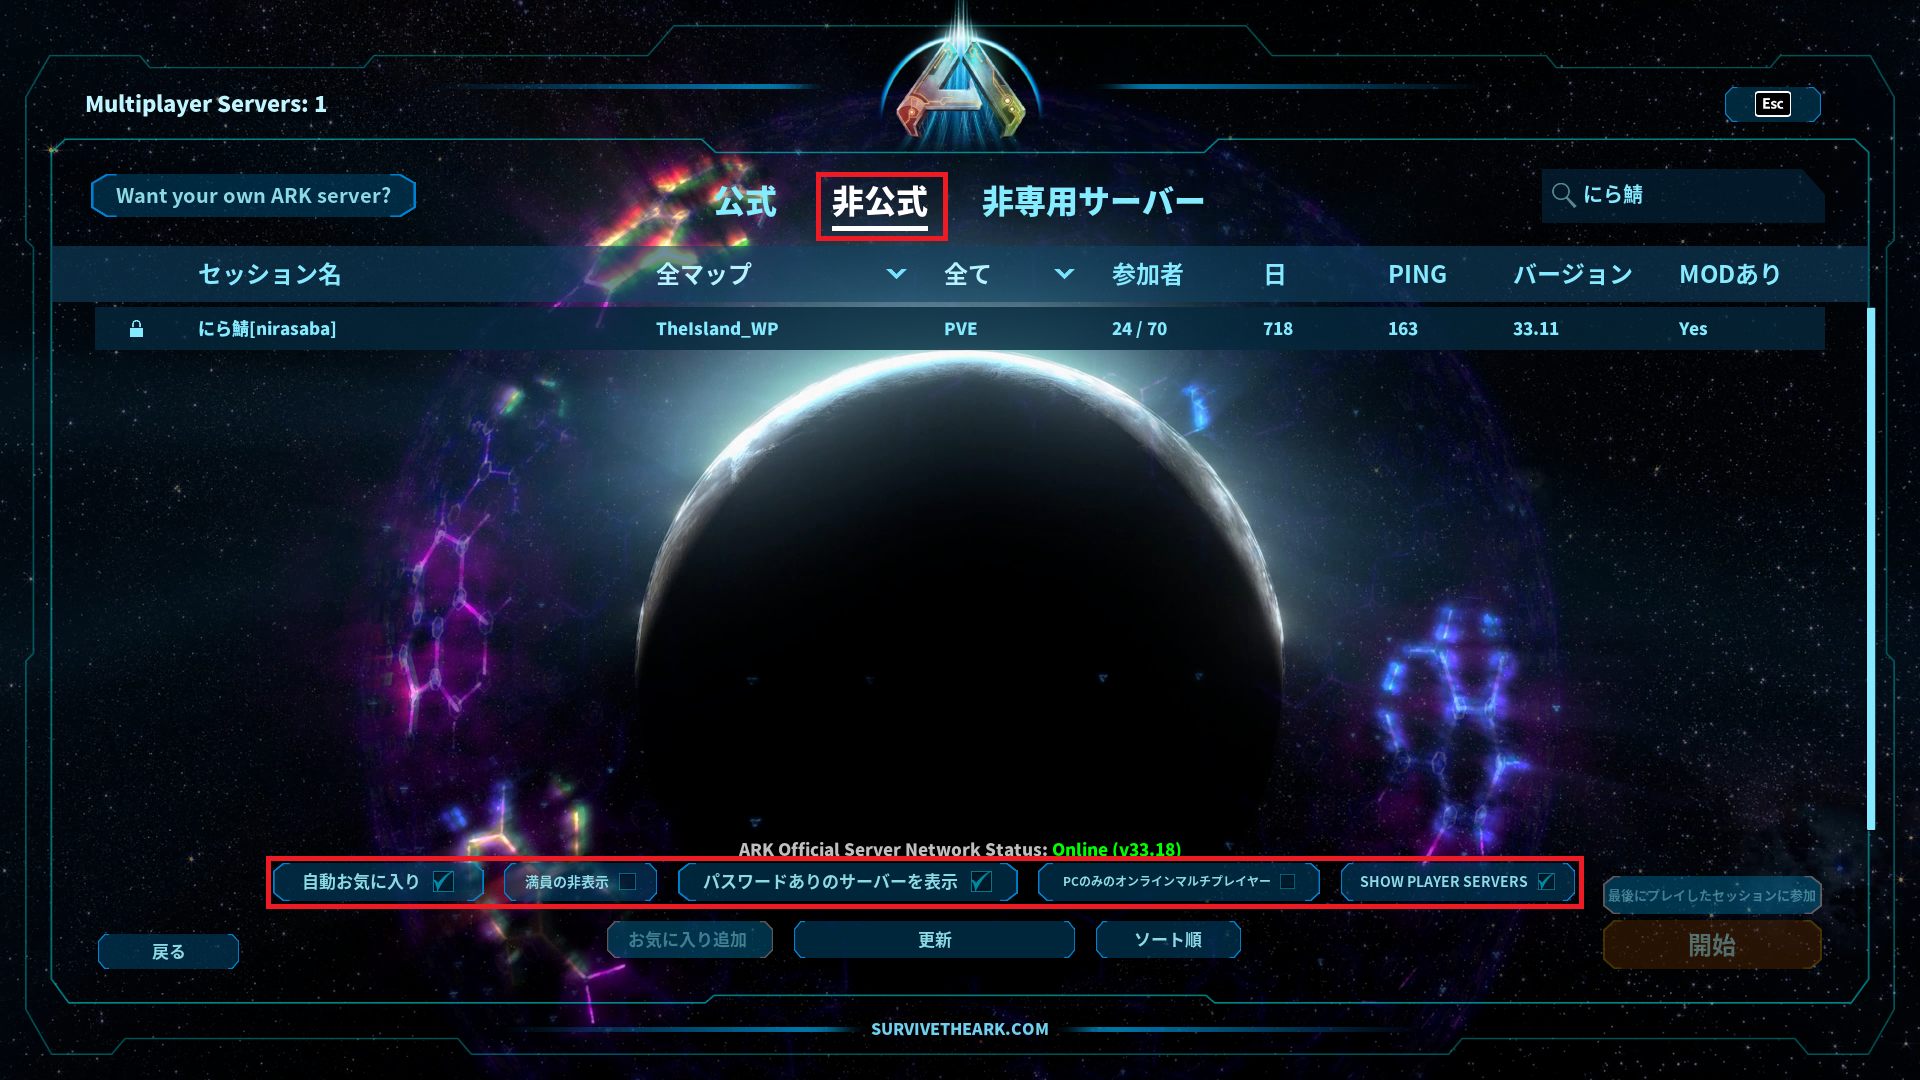
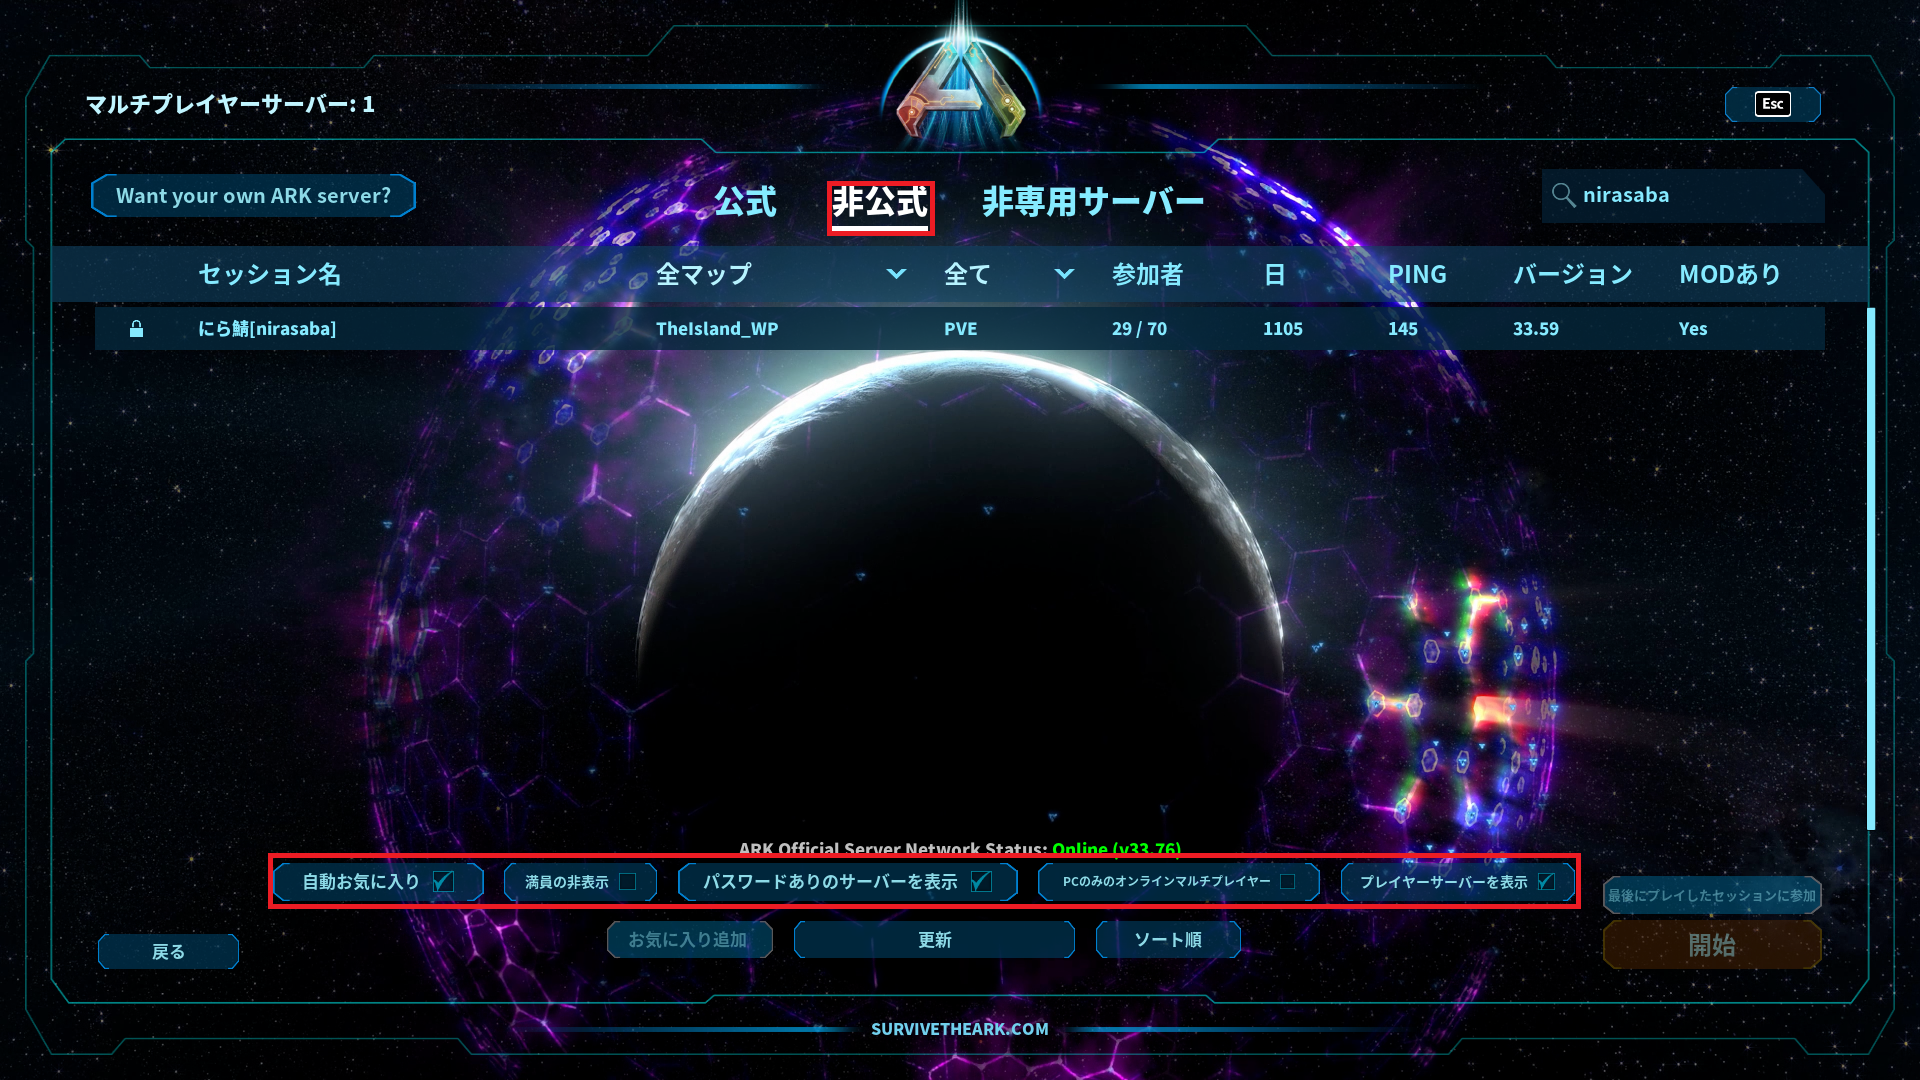
新規向けに参加方法を追記

diff --git a/docs/asa/join.md b/docs/asa/join.md
@@ -45,8 +45,10 @@ ASEサーバーの入り方は[こちら](/docs/ase/join.md)
 ゲームモード                            | 全モード
 ソート順                                | 名前
 自動お気に入り | チェックをつける
+満員の非表示 | チェックを外す
 パスワードありのサーバーを表示         | チェックをつける
-show player Servers         | チェックをつける
+プレイヤーサーバーを表示         | チェックをつける
+〇〇(自身のプラットフォーム)のみのオンラインマルチプレイヤー | チェックを外す
 セッション                     | 非公式
  
 
